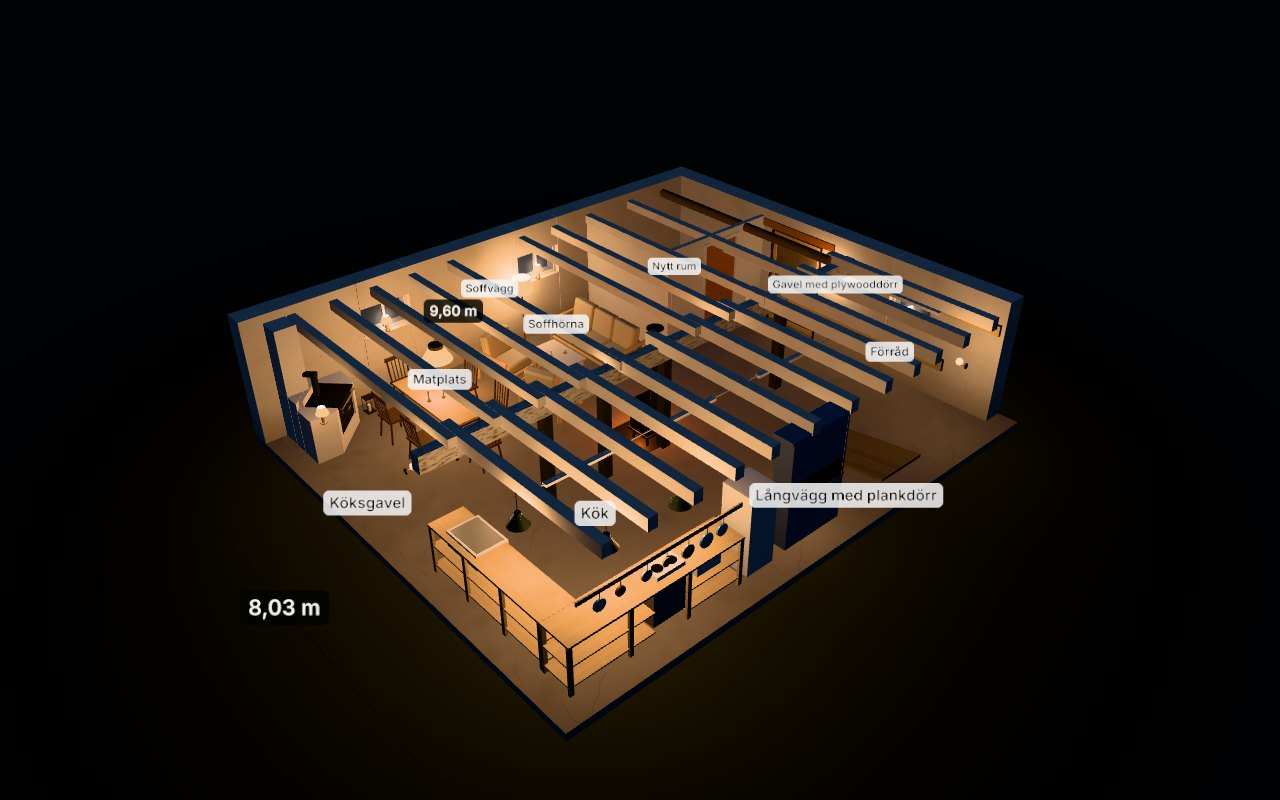
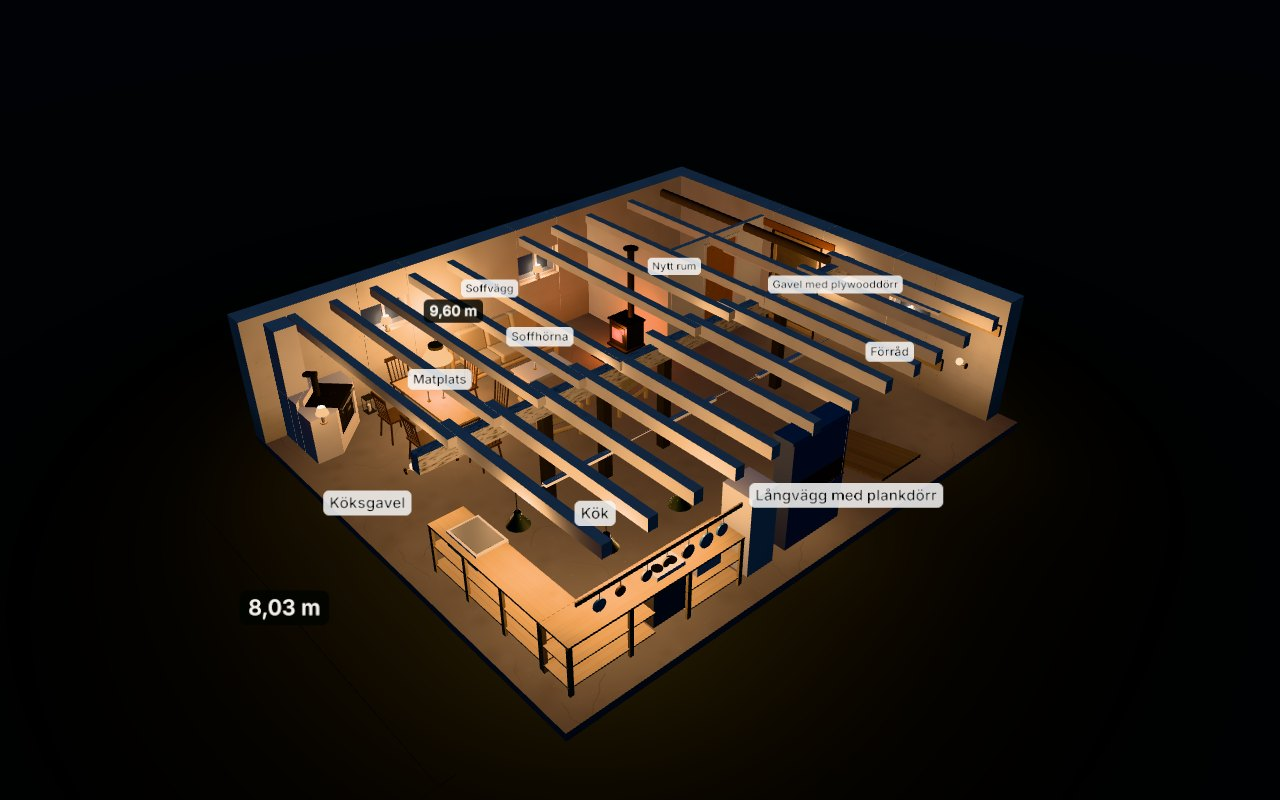
Flytta tillbaka soffgruppen och braskaminen
Soffan står åter mot soffväggen med soffbord och två fåtöljer framför,
och braskaminen mot nya rummets vägg, 1,8 m ut från soffväggen.
Golvlampan följer med soffan.

Claude-Session: https://claude.ai/code/session_01Pv6CpKizXL3M9PiPypFNnz

Changed region(s): [[0.2812, 0.2812, 0.5312, 0.5], [0.4375, 0.4688, 0.5625, 0.5938]]

diff --git a/stallet/src/dimensions.ts b/stallet/src/dimensions.ts
@@ -155,15 +155,12 @@ export const furniture = {
    */
   dining: { x: 2.15, z: 1.8, turn: 90, tableLength: 1.9, tableWidth: 0.85 },
 
-  /**
-   * Soffgruppen i U-form: soffan med ryggen mot nya rummet, en fåtölj med ryggen mot
-   * soffväggen mellan fönstren och en mittemot soffan, med soffbordet i mitten.
-   */
-  sofa: { x: 5.87, z: 1.55, turn: -90, width: 2.05 },
-  coffeeTable: { x: 4.87, z: 1.57, turn: 90 },
+  /** Soffa mot soffväggen, soffbord och två fåtöljer vända mot soffan. */
+  sofa: { x: 4.35, z: 0.55, turn: 0, width: 2.05 },
+  coffeeTable: { x: 4.35, z: 1.75, turn: 0 },
   armchairs: [
-    { x: 4.1, z: 0.95, turn: 10 },
-    { x: 4.05, z: 2.4, turn: 110 },
+    { x: 3.6, z: 3.0, turn: 168 },
+    { x: 5.1, z: 3.05, turn: 192 },
   ],
 
   /** Köket: öppen bänk i vinkel i hörnet köksgavel / långvägg, sedan kyl och blått vitrinskåp. */
@@ -183,17 +180,15 @@ export const furniture = {
   },
 
   /**
-   * Braskamin i gjutjärn framför tredje stolpen i stolpraden (räknat från köksgaveln), där
-   * elkaminen står i skanningen. Ryggen står nästan intill stolpen (ungefär 5 cm luft) och
-   * luckan rakt mot soffväggen och soffgruppen. Röret går rakt upp genom taket, tätt
-   * intill bärlinan (`flue: 'wall'` drar det i stället bakåt genom en vägg).
-   *
-   * Byt stolpe genom att ändra index i `beam.postXs[2]` (0 är stolpen närmast köksgaveln).
+   * Braskamin i gjutjärn mot nya rummets vägg mot soffhörnan, 1,8 m ut från soffväggen
+   * (vid tredje regeln i väggen) och vänd ut mot rummet. Ryggen står 0,3 m från väggen;
+   * 0,22 är halva kaminens djup. Rökröret går rakt upp genom taket (`flue: 'wall'` drar
+   * det i stället bakåt genom en vägg).
    */
   stove: {
-    x: beam.postXs[2],
-    z: beam.z - beam.postSize / 2 - 0.05 - 0.22,
-    turn: 180,
+    x: newRoom.frontX - 0.3 - 0.22,
+    z: 3 * newRoom.studSpacing + 0.0225,
+    turn: -90,
     flue: 'ceiling' as 'ceiling' | 'wall',
   },
 
@@ -241,8 +236,8 @@ export const lighting = {
     { x: 1.0, z: room.width - 0.42, bottom: 1.72, shade: 'enamel' as const, watts: 40 },
     { x: 2.3, z: room.width - 0.42, bottom: 1.72, shade: 'enamel' as const, watts: 40 },
   ],
-  /** Golvlampa vid soffväggen, mellan fåtöljen och soffan. */
-  floorLamps: [{ x: 4.95, z: 0.4, watts: 40 }],
+  /** Golvlampa vid soffans ena gavel. */
+  floorLamps: [{ x: 3.05, z: 0.45, watts: 40 }],
   /** Små lampor i fönsternischerna – en per fönster i soff- och matdelen. */
   windowLamps: ['S1', 'S2', 'A3', 'B1'],
   /** Bordslampa på vitrinskåpets bänkskiva. */

diff --git a/stallet/README.md b/stallet/README.md
@@ -84,20 +84,20 @@ Förenklingar:
 
 ## Möbler
 
-Lägena står under `furniture` i `src/dimensions.ts` – mittpunkt på golvet och vridning i grader – så det går fort att flytta runt saker. Matgruppen, soffgruppen och köket står där de står i skanningen.
+Lägena står under `furniture` i `src/dimensions.ts` – mittpunkt på golvet och vridning i grader – så det går fort att flytta runt saker. Matgruppen och köket står där de står i skanningen.
 
 - **Matgrupp** – bord med sex pinnstolar vid köksgaveln, nära hörnet mot soffväggen. Bordet står på tvären, med långsidan ut från soffväggen.
-- **Soffgrupp** – i U-form: tresitssoffan med ryggen mot nya rummet, en fåtölj med ryggen mot soffväggen mellan fönstren och en mittemot soffan, med soffbordet i mitten.
+- **Soffgrupp** – tresitssoffan mot soffväggen, soffbord och två fåtöljer vända mot soffan.
 - **Kök** – öppen furubänk i vinkel med ugn, kokplatta, mikro och diskho, redskapslist på väggen, kyl/frys och det blå vitrinskåpet.
 - **Vedspis** – Husqvarna-spisen i hörnet köksgavel / soffvägg, 45 grader snett över hörnet och vänd ut mot rummet. Den är upplyft till arbetshöjd (häll på 0,86 m) och inmurad i vitputsat murverk, med murstock innerst i hörnet upp till taket och en murad avställningsyta ut mot väggen på var sida. Murverket når knappt 1,2 m ut längs vardera väggen.
-- **Braskamin** – gjutjärnskamin framför tredje stolpen i stolpraden (räknat från köksgaveln), med ryggen nästan intill stolpen och luckan rakt mot soffväggen och soffgruppen, med eldstadsplan och rökrör rakt upp genom taket. I modellen är det ungefär 5 cm från kaminens rygg till stolpen och 6 cm från rökröret till bärlinan och närmaste takbjälke. Allt det är trä, så en riktig braskamin kan inte stå så utan avskärmning – avstånden till brännbart material måste kontrolleras först.
+- **Braskamin** – gjutjärnskamin mot nya rummets vägg mot soffhörnan, 1,8 m ut från soffväggen och vänd ut mot rummet, med eldstadsplan och rökrör rakt upp genom taket. I modellen är det 0,3 m från kaminens rygg till väggen och ungefär 0,3 m från röret till närmaste takbjälke, så avstånden till brännbart material behöver kontrolleras innan den placeras så på riktigt.
 
 ## Belysning
 
 Lamporna står under `lighting` i `src/dimensions.ts`.
 
 - Taklampa med linneskärm över matbordet och tre emaljskärmar över köksbänken.
-- Golvlampa vid fåtöljen mot soffväggen, bordslampa på vitrinskåpet och små lampor i fyra av fönsternischerna.
+- Golvlampa vid soffan, bordslampa på vitrinskåpet och små lampor i fyra av fönsternischerna.
 - Tre vägglampor: vid vita dörren, vid plywooddörren och i förrådshörnan.
 - Ljusslinga med klotlampor längs bärlinan.
 - Levande ljus på matbordet och soffbordet, en lykta vid vedspisen och skenet från braskaminen.
